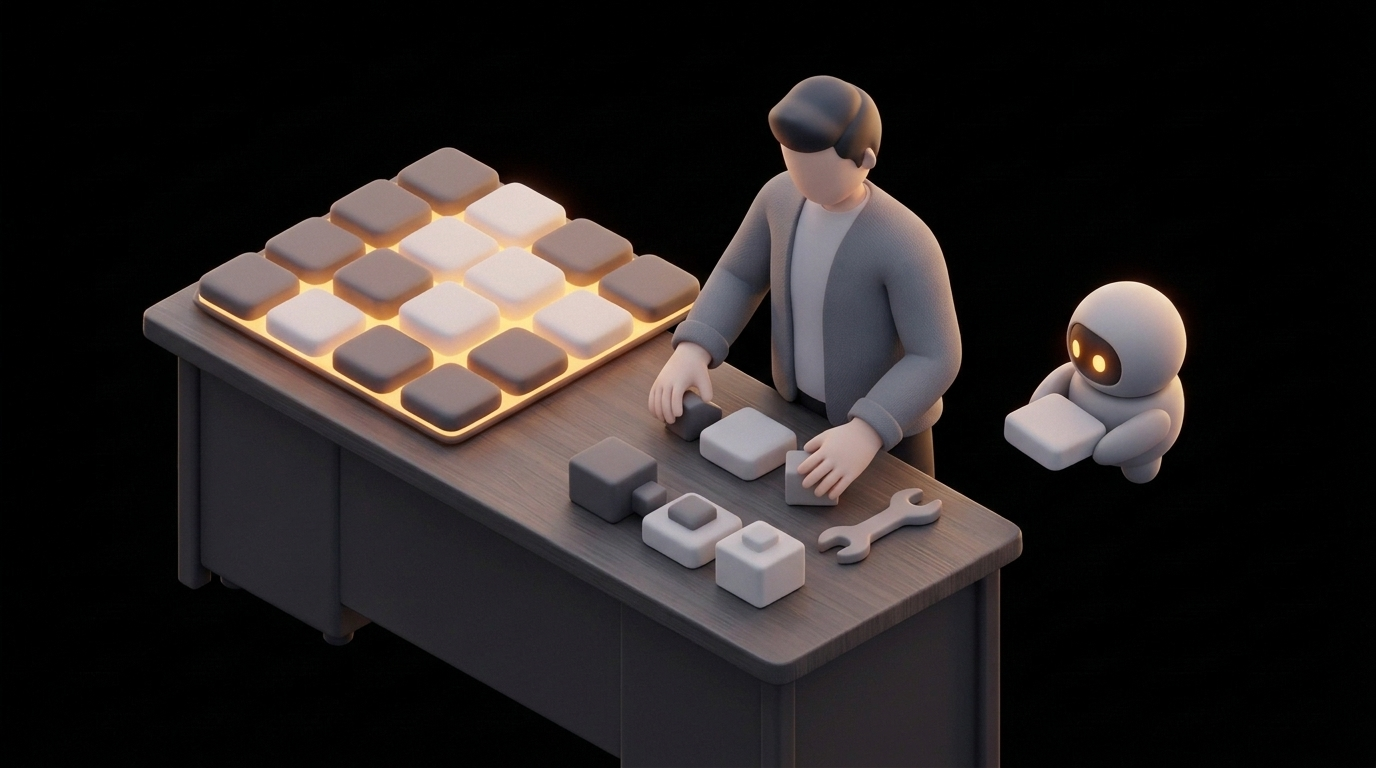
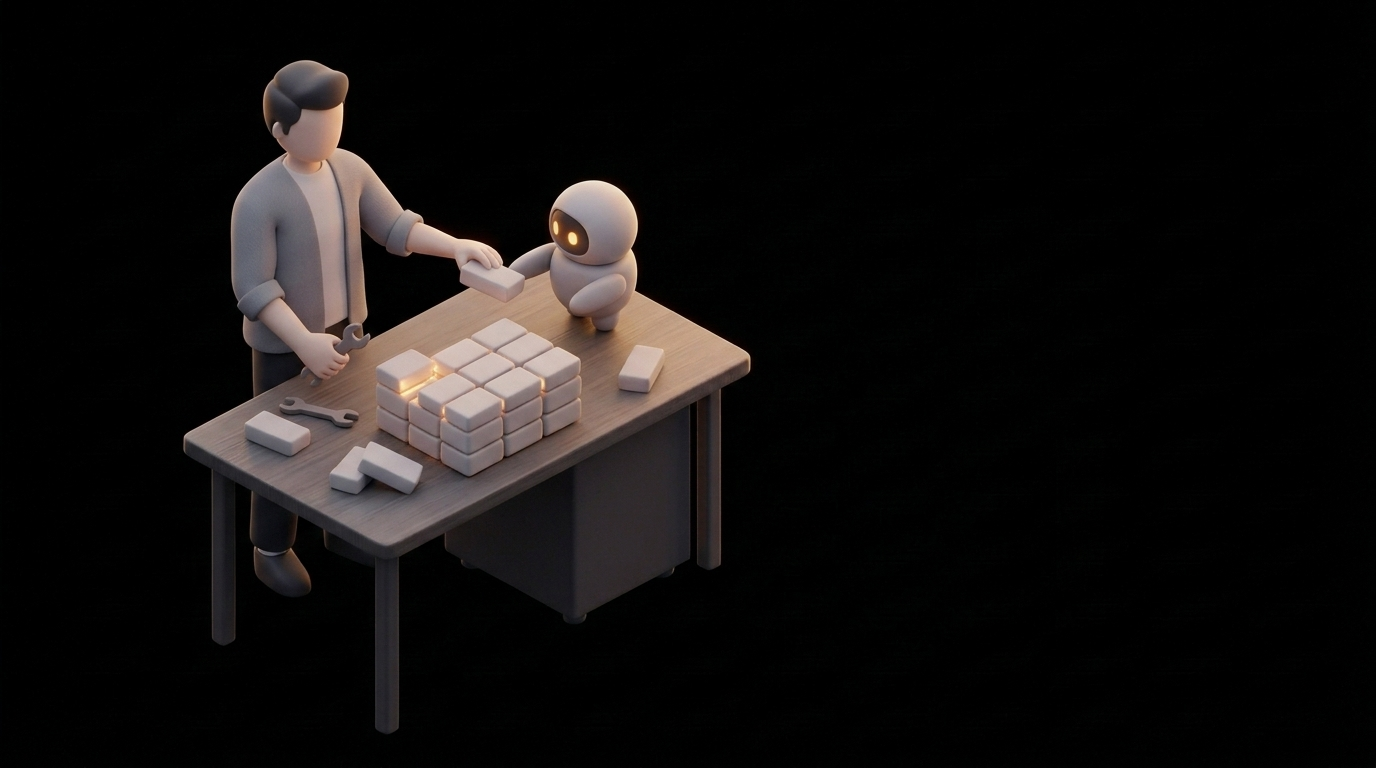
17·18 2차 그림(왼쪽 60% 구도) 반영

diff --git a/slides/AI업무자동화_연수/18.html b/slides/AI업무자동화_연수/18.html
@@ -1,4 +1,4 @@
-<div class="sk sk-cover sk--photo sk--photo-left tone-amber" style="--photo-w: 74%;">
+<div class="sk sk-cover sk--photo sk--photo-left tone-amber">
   <img class="sk-bg" src="img/AI업무자동화/18_puzzle.png" alt="">
   <div class="sk-cover__label">2시간째 · 설치 없음</div>
   <h2 class="sk-cover__title">AI가 만든 코드를 쓴다</h2>

diff --git a/slides/AI업무자동화_연수/17.html b/slides/AI업무자동화_연수/17.html
@@ -1,4 +1,4 @@
-<div class="sk sk-cover sk--photo sk--photo-left tone-amber" style="--photo-w: 74%;">
+<div class="sk sk-cover sk--photo sk--photo-left tone-amber">
   <img class="sk-bg" src="img/AI업무자동화/17_built.png" alt="">
   <div class="sk-cover__label">1시간째 정리</div>
   <h2 class="sk-cover__title">
